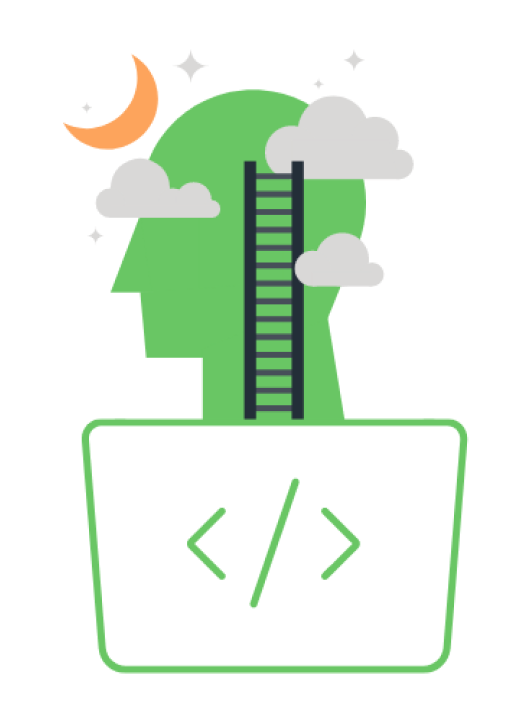
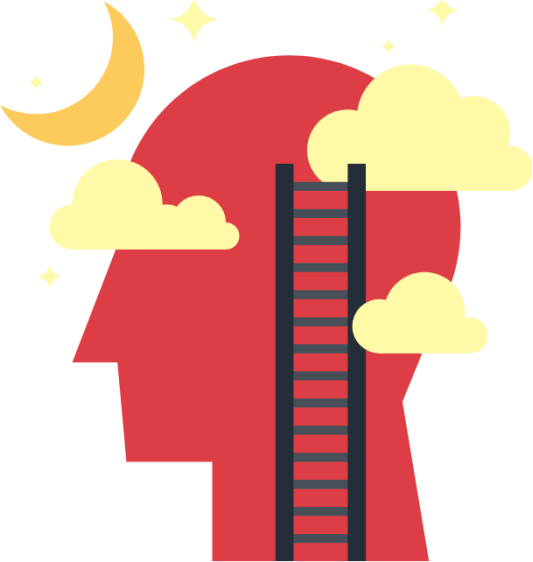
segunda pagina pronta

diff --git a/pages/formacao.html b/pages/formacao.html
@@ -1,0 +1,65 @@
+<!DOCTYPE html>
+<html lang="pt-br">
+
+<head>
+    <meta charset="UTF-8">
+    <meta http-equiv="X-UA-Compatible" content="IE=edge">
+    <meta name="viewport" content="width=device-width, initial-scale=1.0">
+    <link rel="stylesheet" type="text/css" href="../css/bootstrap.min.css">
+    <link rel="preconnect" href="https://fonts.gstatic.com">
+    <link href="https://fonts.googleapis.com/css2?family=Roboto&display=swap" rel="stylesheet">
+    <link rel="preconnect" href="https://fonts.gstatic.com">
+    <link href="https://fonts.googleapis.com/css2?family=Roboto:wght@300&display=swap" rel="stylesheet">
+    <link rel="icon" href="./img/Untitled design (5).png">
+    <title>Sobre mim</title>
+</head>
+
+<body>
+
+    <div class="div-1">
+        <nav class="navbar navbar-expand-lg navbar-dark" style="background-color: #9F2828;">
+            <button class="navbar-toggler" type="button" data-toggle="collapse" data-target="#textoNavbar" aria-controls="textoNavbar" aria-expanded="false" aria-label="Alterna navegação">
+            <span class="navbar-toggler-icon"></span>
+            </button>
+            <div class="collapse navbar-collapse" id="textoNavbar">
+                <ul class="navbar-nav mr-auto">
+                    <li class="nav-item">
+                        <a class="nav-link" href="../index.html">Apresentação<span class="sr-only">(Página atual)</span></a>
+                    </li>
+                    <li class="nav-item active">
+                        <a class="nav-link" href="./pages/formacao.html">Trajetoria acadêmica</a>
+                    </li>
+                    <li class="nav-item">
+                        <a class="nav-link" href="#">Preços</a>
+                    </li>
+                </ul>
+            </div>
+        </nav>
+
+        <h1 class="titulo-segunda-pag">“Educar a <span style="color:#9F2828">mente</span> sem educar o <span style="color:#9F2828">coração</span> não é educação.”</h1>
+        <p class="subtitulo-segunda-pag">Aristóteles</p>
+    </div>
+
+    <div class="div-2">
+        <h1 class="titulo-primeiro-paragrafo-segunda-pag">Até o Ensino Médio</h1>
+        <p class="primeiro-par-segunda-pag">Como já disse anteriormente eu nasci na cidade de Santos e nunca estudei em uma escola fora da cidade, porém já passei por algumas experiências que hoje me dão um conhecimento e consciência de que existem várias realidades sociais diferentes.Nos
+            meus anos de escola passei por algumas instituições, desde as escolas particulares mais caras da cidade até escolas públicas e isso contribuiu e contribui até hoje no meu conhecimento de mundo e na valorização da posição que estou atualmente
+            na minha vida.Por mais que eu já tenha passado momentos difíceis o contato com pessoas e professores de vários lugares me ajudou a formar um caráter respeitoso com todos sem distinção.
+        </p>
+        <img class="img-primeiro-par-segunda-pag" src="../img/img-primeiro-paragrafo-segunda-pag.png">
+    </div>
+
+    <div class="div-3">
+        <h1 class="titulo-segundo-paragrafo-segunda-pag">A faculdade e o futuro</h1>
+        <p class="segundo-par-segunda-pag">No ano seguinte da conclusão do meu ensino médio fiz o Enem e consegui uma vaga em uma instituição para cursar Análise e Desenvolvimento de sistemas que curiosamente foi a mesma instituição que meu irmão se formou. Ainda estou no começo do curso
+            mas estou esperançoso e feliz com minha escolha. O ato de aprender me fascina por causa das praticamente infinitas coisas que se tem a possibilidade de conhecer e as incontáveis coisas que você pode descobrir ou inventar, tenho convicção que
+            um dia vou inventar alguma coisa ou conceito para mais uma vez suprir meu desejo de impressionar as pessoas e adicionar mais uma coisa para a lista de coisas que amo fazer. Enfim o aprendizado para mim é algo muito importante e importante
+            e por isso quero sempre seguir aprendendo coisas novas e fascinantes por que ficar parado fisicamente e fácil mas mentalmente é como segurar um leão em uma gaiola de hamsters.
+        </p>
+        <img class="img-segundo-par-segunda-pag" src="../img/img-segundo-paragrafo-segunda-pag.png">
+    </div>
+
+
+</body>
+
+</html>

diff --git a/index.html b/index.html
@@ -17,17 +17,17 @@
 <body>
 
     <div class="div-1">
-        <nav class="navbar navbar-expand-lg navbar-dark" style="background-color: #289F2A;">
+        <nav class="navbar navbar-expand-lg navbar-dark" style="background-color: #9F2828;">
             <button class="navbar-toggler" type="button" data-toggle="collapse" data-target="#textoNavbar" aria-controls="textoNavbar" aria-expanded="false" aria-label="Alterna navegação">
             <span class="navbar-toggler-icon"></span>
             </button>
             <div class="collapse navbar-collapse" id="textoNavbar">
                 <ul class="navbar-nav mr-auto">
                     <li class="nav-item active">
-                        <a class="nav-link" href="#">Home <span class="sr-only">(Página atual)</span></a>
+                        <a class="nav-link" href="index.html">Apresentação<span class="sr-only">(Página atual)</span></a>
                     </li>
                     <li class="nav-item">
-                        <a class="nav-link" href="#">Destaques</a>
+                        <a class="nav-link" href="./pages/formacao.html">Trajetoria acadêmica</a>
                     </li>
                     <li class="nav-item">
                         <a class="nav-link" href="#">Preços</a>
@@ -36,11 +36,10 @@
             </div>
         </nav>
 
-        <h1 class="Apresentacao">Oi! Meu nome é <span style="color:#53732E">João</span></h1>
+        <h1 class="Apresentacao">Oi! Meu nome é <span style="color:#9F2828">João</span></h1>
         <p class="primeiroTexto">Desça para me conhecer melhor </p>
 
-        <img class="primeiraImg" src="./img/computador-folha-primeirapag.png">
-        <img class="fundoPrimeiraImg" src="./img/fundo-foto-computador.png">
+        <img class="primeiraImg" src="./img/Lateral-primeira-pagina.png">
     </div>
 
     <div class="div-2">
@@ -49,7 +48,7 @@
             a criar experiências, o desenvolvimento de jogos que foi o curso técnico que escolhi e lá conheci a programação e depois o desenvolvimento web que é onde estou agora. Espero que possa impactar a vida das pessoas de forma positiva com toda
             e qualquer ferramenta que esteja a meu alcance seja jogos, desenvolvimento web ou até quem sabe mágica.
         </p>
-        <img class="img-primeiro-par" src="./img/img-firstPag-firstPar.png">
+        <img class="img-primeiro-par" src="./img/img-primeiro-paragrafo.png">
     </div>
 
     <div class="div-3">

diff --git a/css/bootstrap.min.css b/css/bootstrap.min.css
@@ -9331,30 +9331,21 @@ img.primeiraImg {
     float: right;
     right: 0px;
     bottom: 0px;
-    height: 60%;
+    height: 92.58%;
     z-index: 1;
-}
-
-img.fundoPrimeiraImg {
-    position: relative;
-    float: right;
-    left: -50px;
-    bottom: -180px;
-    height: 60%;
-    z-index: 0;
 }
 
 img.img-primeiro-par {
     position: relative;
     left: 10%;
     top: -15%;
-    width: 35%;
+    width: 40%;
 }
 
 h1.titulo-primeiro-paragrafo {
     position: relative;
     top: 26%;
-    margin-left: 58%;
+    margin-left: 56%;
 }
 
 p.primeiro-par {
@@ -9366,15 +9357,15 @@ p.primeiro-par {
 
 img.img-segundo-par {
     position: relative;
-    left: 15%;
+    left: 13%;
     top: 0%;
-    height: 65%;
+    height: 55%;
 }
 
 h1.titulo-segundo-paragrafo {
     position: relative;
-    top: 23%;
-    margin-left: 8%;
+    top: 25%;
+    margin-left: 10%;
 }
 
 p.segundo-par {
@@ -9398,7 +9389,6 @@ body {
 }
 
 .div-1 {
-    background: linear-gradient(270.17deg, #EBEBEB 0.18%, #E8E8E8 15.21%);
     position: static;
     height: 100vh;
 }
@@ -9406,13 +9396,64 @@ body {
 .div-2 {
     position: static;
     height: 100vh;
-    background-color: #EFEFEF;
 }
 
 .div-3 {
     position: static;
     height: 100vh;
-    background-color: #EFEFEF;
+}
+
+.titulo-segunda-pag {
+    position: relative;
+    text-align: center;
+    top: 35%;
+}
+
+.subtitulo-segunda-pag {
+    position: relative;
+    text-align: center;
+    top: 37%;
+}
+
+img.img-primeiro-par-segunda-pag {
+    position: relative;
+    left: 9%;
+    top: 9%;
+    height: 45%;
+}
+
+h1.titulo-primeiro-paragrafo-segunda-pag {
+    position: relative;
+    top: 25%;
+    margin-left: 10%;
+}
+
+p.primeiro-par-segunda-pag {
+    position: relative;
+    margin-left: 10%;
+    top: 28%;
+    width: 39%;
+    display: inline-block;
+}
+
+img.img-segundo-par-segunda-pag {
+    position: relative;
+    left: 10%;
+    top: -20%;
+    width: 30%;
+}
+
+h1.titulo-segundo-paragrafo-segunda-pag {
+    position: relative;
+    top: 34%;
+    margin-left: 56%;
+}
+
+p.segundo-par-segunda-pag {
+    position: relative;
+    margin-left: 56%;
+    top: 36%;
+    width: 34%;
 }
 
 
